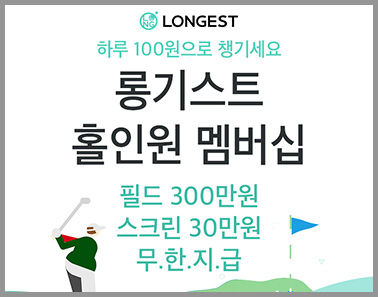
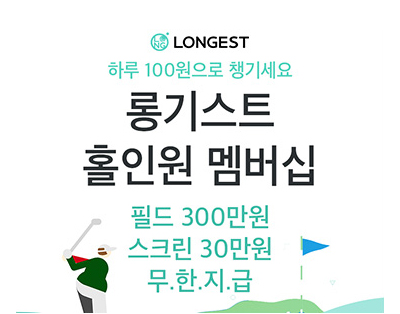
.

Changed region(s): [[0.0, 0.0, 1.0, 1.0], [0.7275, 0.7273, 0.8439, 0.8788], [0.8148, 0.8788, 0.8439, 0.9091]]

diff --git a/css/sub.css b/css/sub.css
@@ -70,7 +70,7 @@ body,#wrap{width:100%;height:100%}
 .footer div:first-child p{color:#7d7d7d;font-size:15px;line-height:26px;}
 .footer div:first-child p span{margin-left:20px;}
 .footer div:first-child p span a{color:#50718a;font-weight:bold;}
-.copyright{font-size:11px !important;color:#7d7d7d !important;font-family:'Montserrat' !important;font-weight:normal !important;opacity:.5;}
+.copyright{font-size:11px !important;color:#7d7d7d !important;font-weight:normal !important;opacity:.5;}
 .footer div:last-child{padding-top:30px}
 #floatMenu{position: absolute;z-index:100;
 
@@ -95,7 +95,7 @@ body,#wrap{width:100%;height:100%}
 .movie_wrap{margin-top:40px;width:100%;height:675px;}
 .practice_info_wrap{margin-top:90px;overflow: hidden;}
 .practice_info_wrap dl{float:left;width:calc(20% - 30px);padding-left:30px;font-size: 0;}
-.practice_info_wrap dt{display: inline-block;position: relative;padding-left: 30px;color:#f7941c;font-family:'Montserrat' !important;font-size:25px;font-weight:bold;width:auto !important;text-decoration:underline;text-align: left;line-height: 1.5 !important;}
+.practice_info_wrap dt{display: inline-block;position: relative;padding-left: 30px;color:#f7941c;font-size:25px;font-weight:bold;width:auto !important;text-decoration:underline;text-align: left;line-height: 1.5 !important;}
 .practice_info_wrap dt img{position: absolute;left: 0;top: 8px;}
 .practice_info_wrap dd{margin-top:40px;font-size:20px;font-weight:bold;}
 .practice_info_wrap dd span{font-weight:normal;font-size:18px;color:#222;margin-top:20px;display:block;line-height:30px;}
@@ -127,7 +127,7 @@ body,#wrap{width:100%;height:100%}
 .sub_text_p{font-size:19px;margin-top:40px}
 
 /* faq */
-.cont_length{border-bottom:2px solid #000;padding-bottom:10px;font-size:23px;font-weight:bold;font-family:'Montserrat' !important;float:left;}
+.cont_length{border-bottom:2px solid #000;padding-bottom:10px;font-size:23px;font-weight:bold;float:left;}
 .marketing_wrap{width:1200px;margin:0 auto;clear:both;}
 .marketing{float:left;width:31%;margin:50px 27px 50px 0;border:1px solid #dcdcdc;background:white;overflow: hidden;cursor:pointer;}
 .marketing:last-child{margin-right:0;}
@@ -135,7 +135,7 @@ body,#wrap{width:100%;height:100%}
 .marketing_info_text{margin-top:40px;margin-left:20px;margin-bottom:40px}
 .marketing_info_text h2{font-size:30px;font-weight:bold;margin-bottom:20px;}
 .marketing_info_text p{font-size:18px;height:115px;line-height:28px;}
-.marketing_info_text span{font-family:'Montserrat' !important;font-size:15px}
+.marketing_info_text span{font-size:15px}
 .marketing.on{border:1px solid #006eb7;-webkit-box-shadow: 3px 6px 13px 0px rgba(0,0,0,0.16);
 	-moz-box-shadow: 3px 6px 13px 0px rgba(0,0,0,0.16);
 	box-shadow: 3px 6px 13px 0px rgba(0,0,0,0.16);}
@@ -334,6 +334,9 @@ body,#wrap{width:100%;height:100%}
 .pop_campain .swiper .swiper-slide{
 	padding: 0 74px;
 }
+.pop_campain .swiper .swiper-slide img{
+	max-width: 100%;
+}
 .column {
 	display: block;
 	flex-basis: 0;
@@ -356,3 +359,4 @@ body,#wrap{width:100%;height:100%}
 	margin: 0.75em;
 	padding-left: 0.75em;
 }
+

diff --git a/m/css/sub.css b/m/css/sub.css
@@ -44,7 +44,7 @@ html,body{height:100%;}
 .sub_cont .practice_info_wrap{margin-top:4rem;padding:0 1.5rem;overflow:hidden}
 .sub_cont .practice_info_wrap dl{overflow: hidden;margin-bottom:1.5rem}
 .sub_cont .practice_info_wrap dl:last-child{margin-bottom:0}
-.sub_cont .practice_info_wrap dt{clear:both;float:left;font-family:'Montserrat' !important;font-size:15px;color:#006eb7;margin-right:2rem}
+.sub_cont .practice_info_wrap dt{clear:both;float:left;font-size:15px;color:#006eb7;margin-right:2rem}
 .sub_cont .practice_info_wrap dd{float:left;font-size:14px;font-weight:bold;line-height: 1.4;}
 .sub_cont .practice_info_wrap dd span{font-weight:normal;margin-top:10px;display:block;}
 .game_info_wrap{width:calc(100% - 3rem);background:#f3f5f7;margin-top:5rem;padding:5rem 1.5rem;margin-bottom:5rem}
@@ -73,7 +73,7 @@ html,body{height:100%;}
 .marketing_info_text{padding:1rem 0.5rem}
 .marketing_info_text h2{font-size:18px;font-weight:bold;margin-bottom:10px;line-height:24px;}
 .marketing_info_text p{font-size:12px;height:112px;line-height:16px;}
-.marketing_info_text span{font-family:'Montserrat' !important;font-size:12px}
+.marketing_info_text span{font-size:12px}
 #popup{width:100%;background:white;border-radius:50px 50px 0 0;position:fixed;-webkit-box-shadow: 0px 6px 43px -1px rgba(0,0,0,0.15);
 	-moz-box-shadow: 0px 6px 43px -1px rgba(0,0,0,0.15);
 	box-shadow: 0px 6px 43px -1px rgba(0,0,0,0.15);z-index:99;}
@@ -125,7 +125,7 @@ html,body{height:100%;}
 .partnership_info_wrap span{font-size:14px;color:#535353;}
 .partnership_info_wrap h3{font-size:17px;line-height:24px;}
 .partnership_info_wrap h3 span{padding:10px;background:#006eb7;color:white;margin-right:15px;display:inline-block;
-    font-size:14px;font-family:'Montserrat' !important;vertical-align:middle;}
+    font-size:14px;vertical-align:middle;}
 .partnership_info_wrap img{margin-bottom:3rem}
 .sub_text_p{font-size:15px;margin:20px 0 40px 0;color:#535353;line-height:24px;}
 @media all and (min-width:425px){
@@ -313,6 +313,9 @@ html,body{height:100%;}
     box-sizing: border-box;-moz-box-sizing: border-box;-webkit-box-sizing: border-box;-o-box-sizing: border-box;
 	padding: 0 50px;
 }
+.pop_campain .swiper .swiper-slide img{
+    max-width: 100%;
+}
 .column {
     display: block;
     flex-basis: 0;
@@ -338,3 +341,4 @@ html,body{height:100%;}
     margin: 0.75em;
     padding-left: 0.75em;
 }
+

diff --git a/sub/marketingsolution/marketing.html b/sub/marketingsolution/marketing.html
@@ -341,7 +341,7 @@
                                     </div>
                                     <div class="swiper-slide">
                                         <div class="marketing cont10">
-                                            <img src="../../images/sub/mtt10.jpg" />
+                                            <img src="../../images/sub/mtt10.jpg?ver=2" style="border-bottom: 1px solid #dcdcdc" />
                                             <div class="marketing_info_text">
                                                 <h2>한화생명보험</h2>
                                                 <p>
@@ -363,7 +363,7 @@
                                     </div>
                                     <div class="swiper-slide">
                                         <div class="marketing cont12">
-                                            <img src="../../images/sub/mtt12.jpg" />
+                                            <img src="../../images/sub/mtt12.jpg?ver=2" style="border-bottom: 1px solid #dcdcdc" />
                                             <div class="marketing_info_text">
                                                 <h2>롱기스트</h2>
                                                 <p>
@@ -716,7 +716,7 @@
                                 </h2>
                                 <p class="pop_text">#배틀존&nbsp;&nbsp;#브랜드커뮤니케이션&nbsp;&nbsp;#오브젝트이벤트</p>
                                 <div class="pop_info_img" style="text-align: center;">
-                                    <img src="../../images/sub/img_marketing_pop_5.jpg" alt="" style="max-width:720px;border:15px solid white" />
+                                    <img src="../../images/sub/mtt5.jpg" alt="" style="max-width:720px;border:15px solid white" />
                                 </div>
                                 <div class="pop_text_list">
                                     <dl style="margin-top:0">

diff --git a/css/main.css b/css/main.css
@@ -56,11 +56,12 @@ body,#wrap{width:100%;}
 .ad6_info_text .t1{margin-top:60px;font-weight:bold;font-size:40px;color:black;line-height:50px;}
 .ad6_info_text .t2{margin-top:30px;font-size:25px;color:#000d1d;}
 .ad6_list{overflow: hidden;}
-.ad6_list div{float:left;margin-bottom:80px;margin-right:59px;width:360px}
+.ad6_list div{float:left;margin-bottom:80px;margin-right:59px;width:360px;border: 1px solid #dcdcdc;box-sizing: border-box;-moz-box-sizing: border-box;-webkit-box-sizing: border-box;-o-box-sizing: border-box;}
 .ad6_list div:last-child{margin-right:0}
 .ad6_list div:nth-child(2),.ad6_list div:nth-child(5){margin-top:110px}
-.ad6_list h3{font-size:40px;font-weight:bold;color:black;margin:30px 0}
-.ad6_list p{font-size:19px;color:#000d1d;line-height:30px;}
+.ad6_list h3{font-size:40px;font-weight:bold;color:black;margin:30px 0;padding: 0 20px;}
+.ad6_list p{font-size:19px;color:#000d1d;line-height:30px;padding: 0 20px;}
+.ad6_list p:last-child{padding-bottom: 30px;}
 .ad6 .btn{text-align:center;margin-top:75px;}
 .ad_product_wrap{width:100%;background:#f3f7fa;padding:120px 0;height:1100px;}
 .ad_product_text{width:1200px;margin:0 auto;text-align:center;}
@@ -216,8 +217,7 @@ dd{color:#666;padding:50px;font-size:20px;line-height:34px;border-top:1px solid 
 .ad6_list .innerborder{
   position: relative;
   display: block;
-  width: 360px;
-  height: 527px;
+  padding-bottom: 146.3%;
   margin-bottom: 20px;
   box-sizing: border-box;
   background-position: 50% 50%;

diff --git a/m/sub/marketingsolution/marketing.html b/m/sub/marketingsolution/marketing.html
@@ -384,7 +384,7 @@
                             <div class="swiper-slide">
                                 <div class="marketing">
                                     <a href="marketing10.html" >
-                                        <img src="../../images/sub/mtt10.jpg" />
+                                        <img src="../../images/sub/mtt10.jpg?ver=2" />
                                         <div class="marketing_info_text">
                                             <h2>한화생명보험</h2>
                                             <p>
@@ -410,7 +410,7 @@
                             <div class="swiper-slide">
                                 <div class="marketing">
                                     <a href="marketing12.html" >
-                                        <img src="../../images/sub/mtt12.jpg" />
+                                        <img src="../../images/sub/mtt12.jpg?ver=2" />
                                         <div class="marketing_info_text">
                                             <h2>롱기스트</h2>
                                             <p>

diff --git a/m/css/main.css b/m/css/main.css
@@ -50,9 +50,9 @@ img {
 #content .ad_slide_wrap .info_text_wrap h2{font-size:1.6rem;font-weight:bold;line-height:2.4rem;}
 #content .ad_slide_wrap .info_text_wrap p{font-size:1.1rem;line-height:2rem;color:#000d1d;margin-top:1.5rem}
 #content .ad_slide_wrap .swiper-slide:first-child{padding-left:1.8rem}
-#content .ad_slide_wrap .ad_slide h3{font-weight:bold;font-size:1.6rem;margin:1.5rem 0}
+#content .ad_slide_wrap .ad_slide h3{font-weight:bold;font-size:1.6rem;margin:1.5rem 0;}
 #content .ad_slide_wrap .ad_slide p{font-size:14px;margin-bottom:10px;letter-spacing:-1px;}
-#content .ad_slide_wrap .ad_slide p:last-child{margin-bottom:0}
+#content .ad_slide_wrap .ad_slide p:last-child{margin-bottom:0;}
 .ad_btn{text-align:center;margin-top:7rem;margin-bottom:1.2rem;}
 .ad_btn img{width:13rem;}
 #content .slide_4st_wrap{background:#f3f7fa;padding:3rem 0;}

diff --git a/main.html b/main.html
@@ -194,7 +194,7 @@
                             <p>#연간계약</p>
                         </div>
                         <div>
-                            <a href="sub/marketingsolution/marketing.html#e1" class="innerborder" style="background-image: url('images/main/main_img_solution6.jpg');"></a>
+                            <a href="sub/marketingsolution/marketing.html#e1" class="innerborder" style="background-image: url('images/main/main_img_solution6.jpg?ver=2');border-bottom: 1px solid #dcdcdc"></a>
                             <h3>한화생명보험</h3>
                             <p>#모바일광고</p>
                             <p>#앱광고</p>

diff --git a/m/sub/marketingsolution/marketing5.html b/m/sub/marketingsolution/marketing5.html
@@ -29,7 +29,7 @@
             </h2>
             <p class="pop_text">#배틀존&nbsp;&nbsp;#브랜드커뮤니케이션&nbsp;&nbsp;#오브젝트이벤트</p>
             <div class="pop_info_img" style="text-align: center;">
-                <img src="../../images/sub/img_marketing_pop_5.jpg" alt="" style="max-width:720px;border:5px solid white" />
+                <img src="../../images/sub/mtt5.jpg" alt="" style="max-width:720px;border:5px solid white" />
             </div>
             <div class="pop_text_list">
                 <dl style="margin-top:0">

diff --git a/m/index.html b/m/index.html
@@ -182,7 +182,7 @@
                             </div>
                             </div>
                             <div class="swiper-slide">
-                            <img src="images/main/main_img_solution6.jpg">
+                            <img src="images/main/main_img_solution6.jpg?ver=2">
                             <div>
                                 <h3>한화생명보험</h3>
                                 <p>#모바일광고</p>
